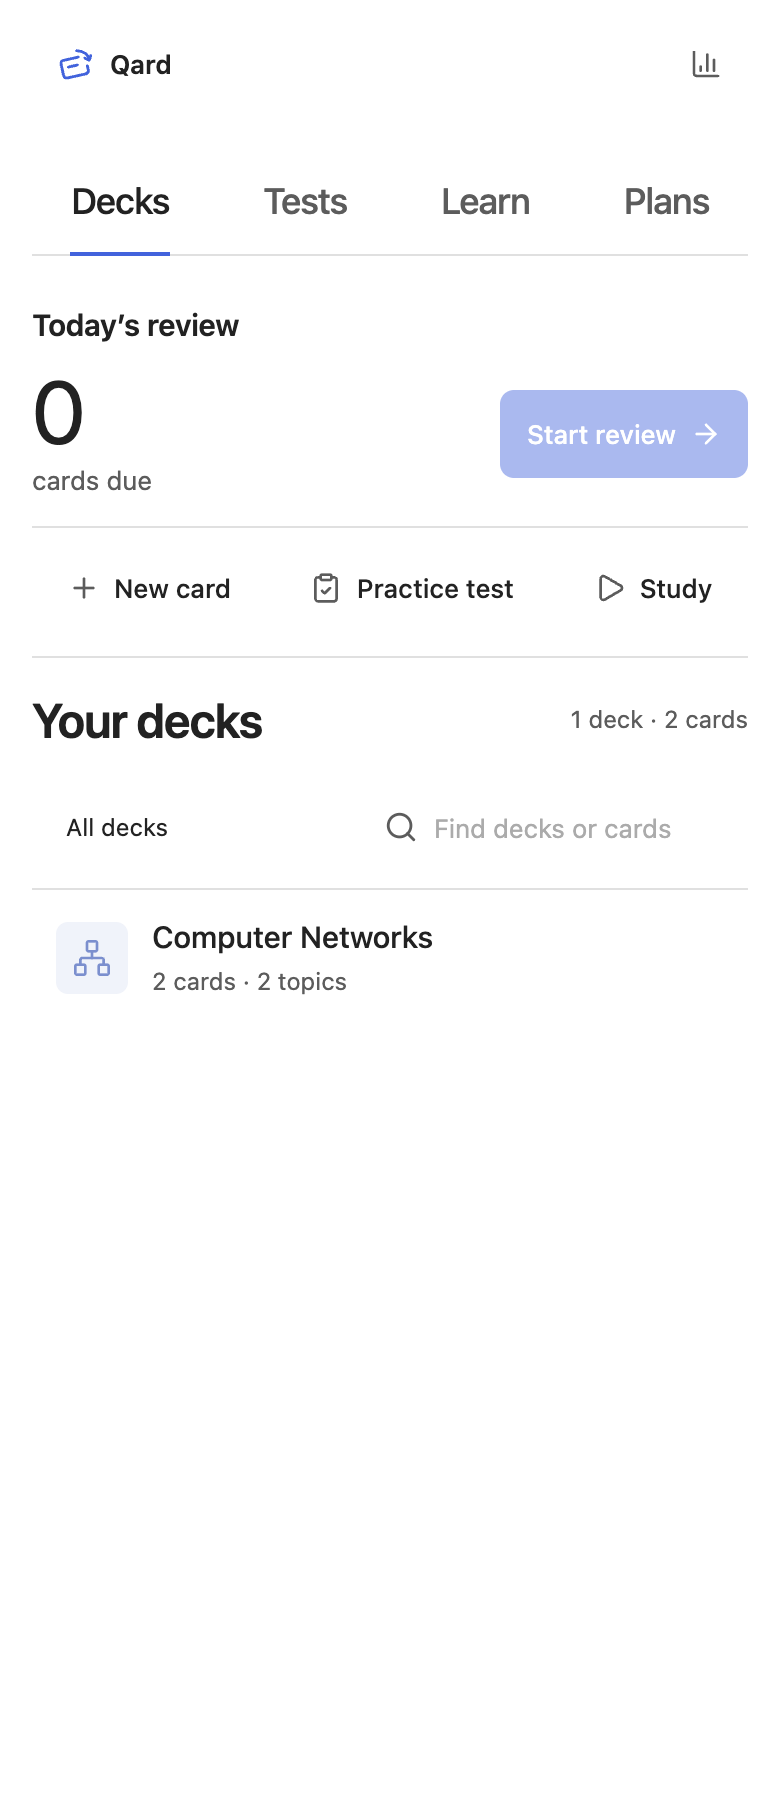
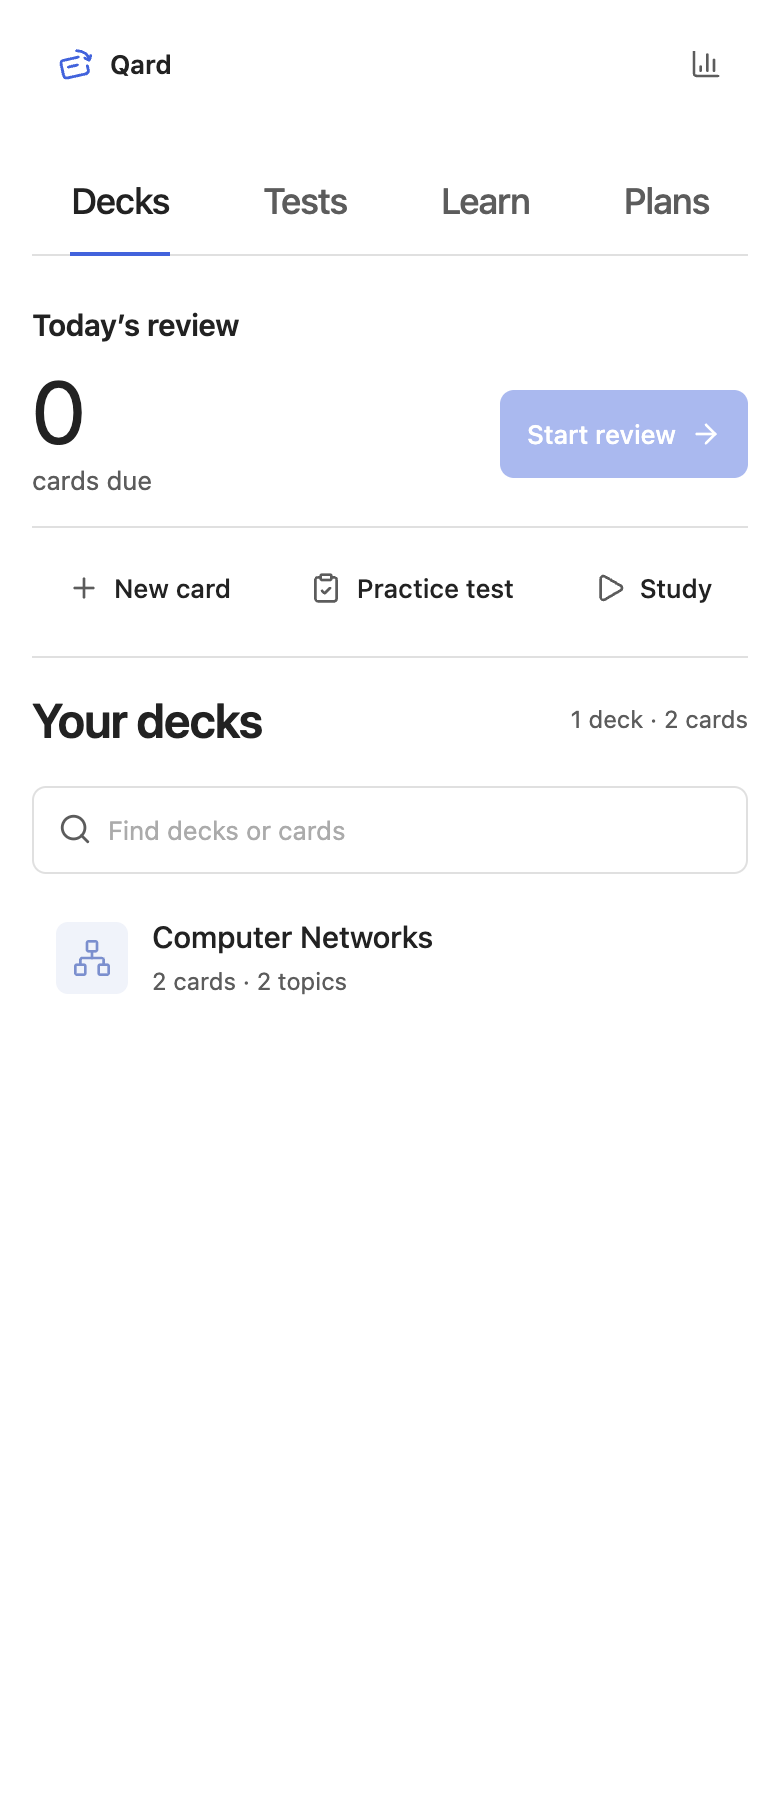
Refresh deck search and shared topic field comparisons

Changed region(s): [[0.0615, 0.4356, 0.4308, 0.4667], [0.5538, 0.4356, 0.8615, 0.4667], [0.4923, 0.4356, 0.5231, 0.4667]]

diff --git a/docs/images/ui-main-latest/audit-report.md b/docs/images/ui-main-latest/audit-report.md
@@ -1,3 +1,16 @@
+# Deck and topic search verification
+
+Latest source `f303c63d9e66a45a072d133d84a8c0de35c31457`. Screenshot baseline remains upstream main `70056821914f0dae910b52a20f1fa3329b04d0ac`.
+
+- Deck search and Needs fixing share one wrapping filter row. The redundant deck toolbar, All/Matching decks label, underline and filter margins are removed. Search stays at the trailing edge and fills its wrapped row in compact panes.
+- Deck and topic search use the existing shared qard-search border, control radius, input typography, control height and 12px horizontal inset. Library-specific borderless, fixed-input-width and radius overrides are removed. Topic controls wrap naturally with the same field treatment.
+- All 32 browser cases passed across 320, 390, 600, 601, 768, 1100 and 1440px panes, plus a narrow desktop pane, in both themes. Checks cover padding, border/radius/type parity, input focus styling, wrapping and overflow, deck/topic text filtering, repair filtering combined with text, and clearing/restoring results.
+- Full check passed: 767 tests in 95 suites, formatting, typecheck, source lint, CSS lint, production build and release verification. No test cases were added. The final unused filter-margin deletion also passed formatting and CSS lint.
+- Six existing comparison pairs are refreshed and two relevant topic-search pairs added, for 52 pairs total. Captions remain outside images and all tables retain at most three examples.
+- The isolated Obsidian build was refreshed. Current working plugin and Obsidian files were hashed before and after the isolated installation and preserved.
+
+## Prior verification
+
 # Summary action alignment verification
 
 Latest source `617d68c06d15b69abf2b01cda5512950aa698b66`. Screenshot baseline remains upstream main `70056821914f0dae910b52a20f1fa3329b04d0ac`.
